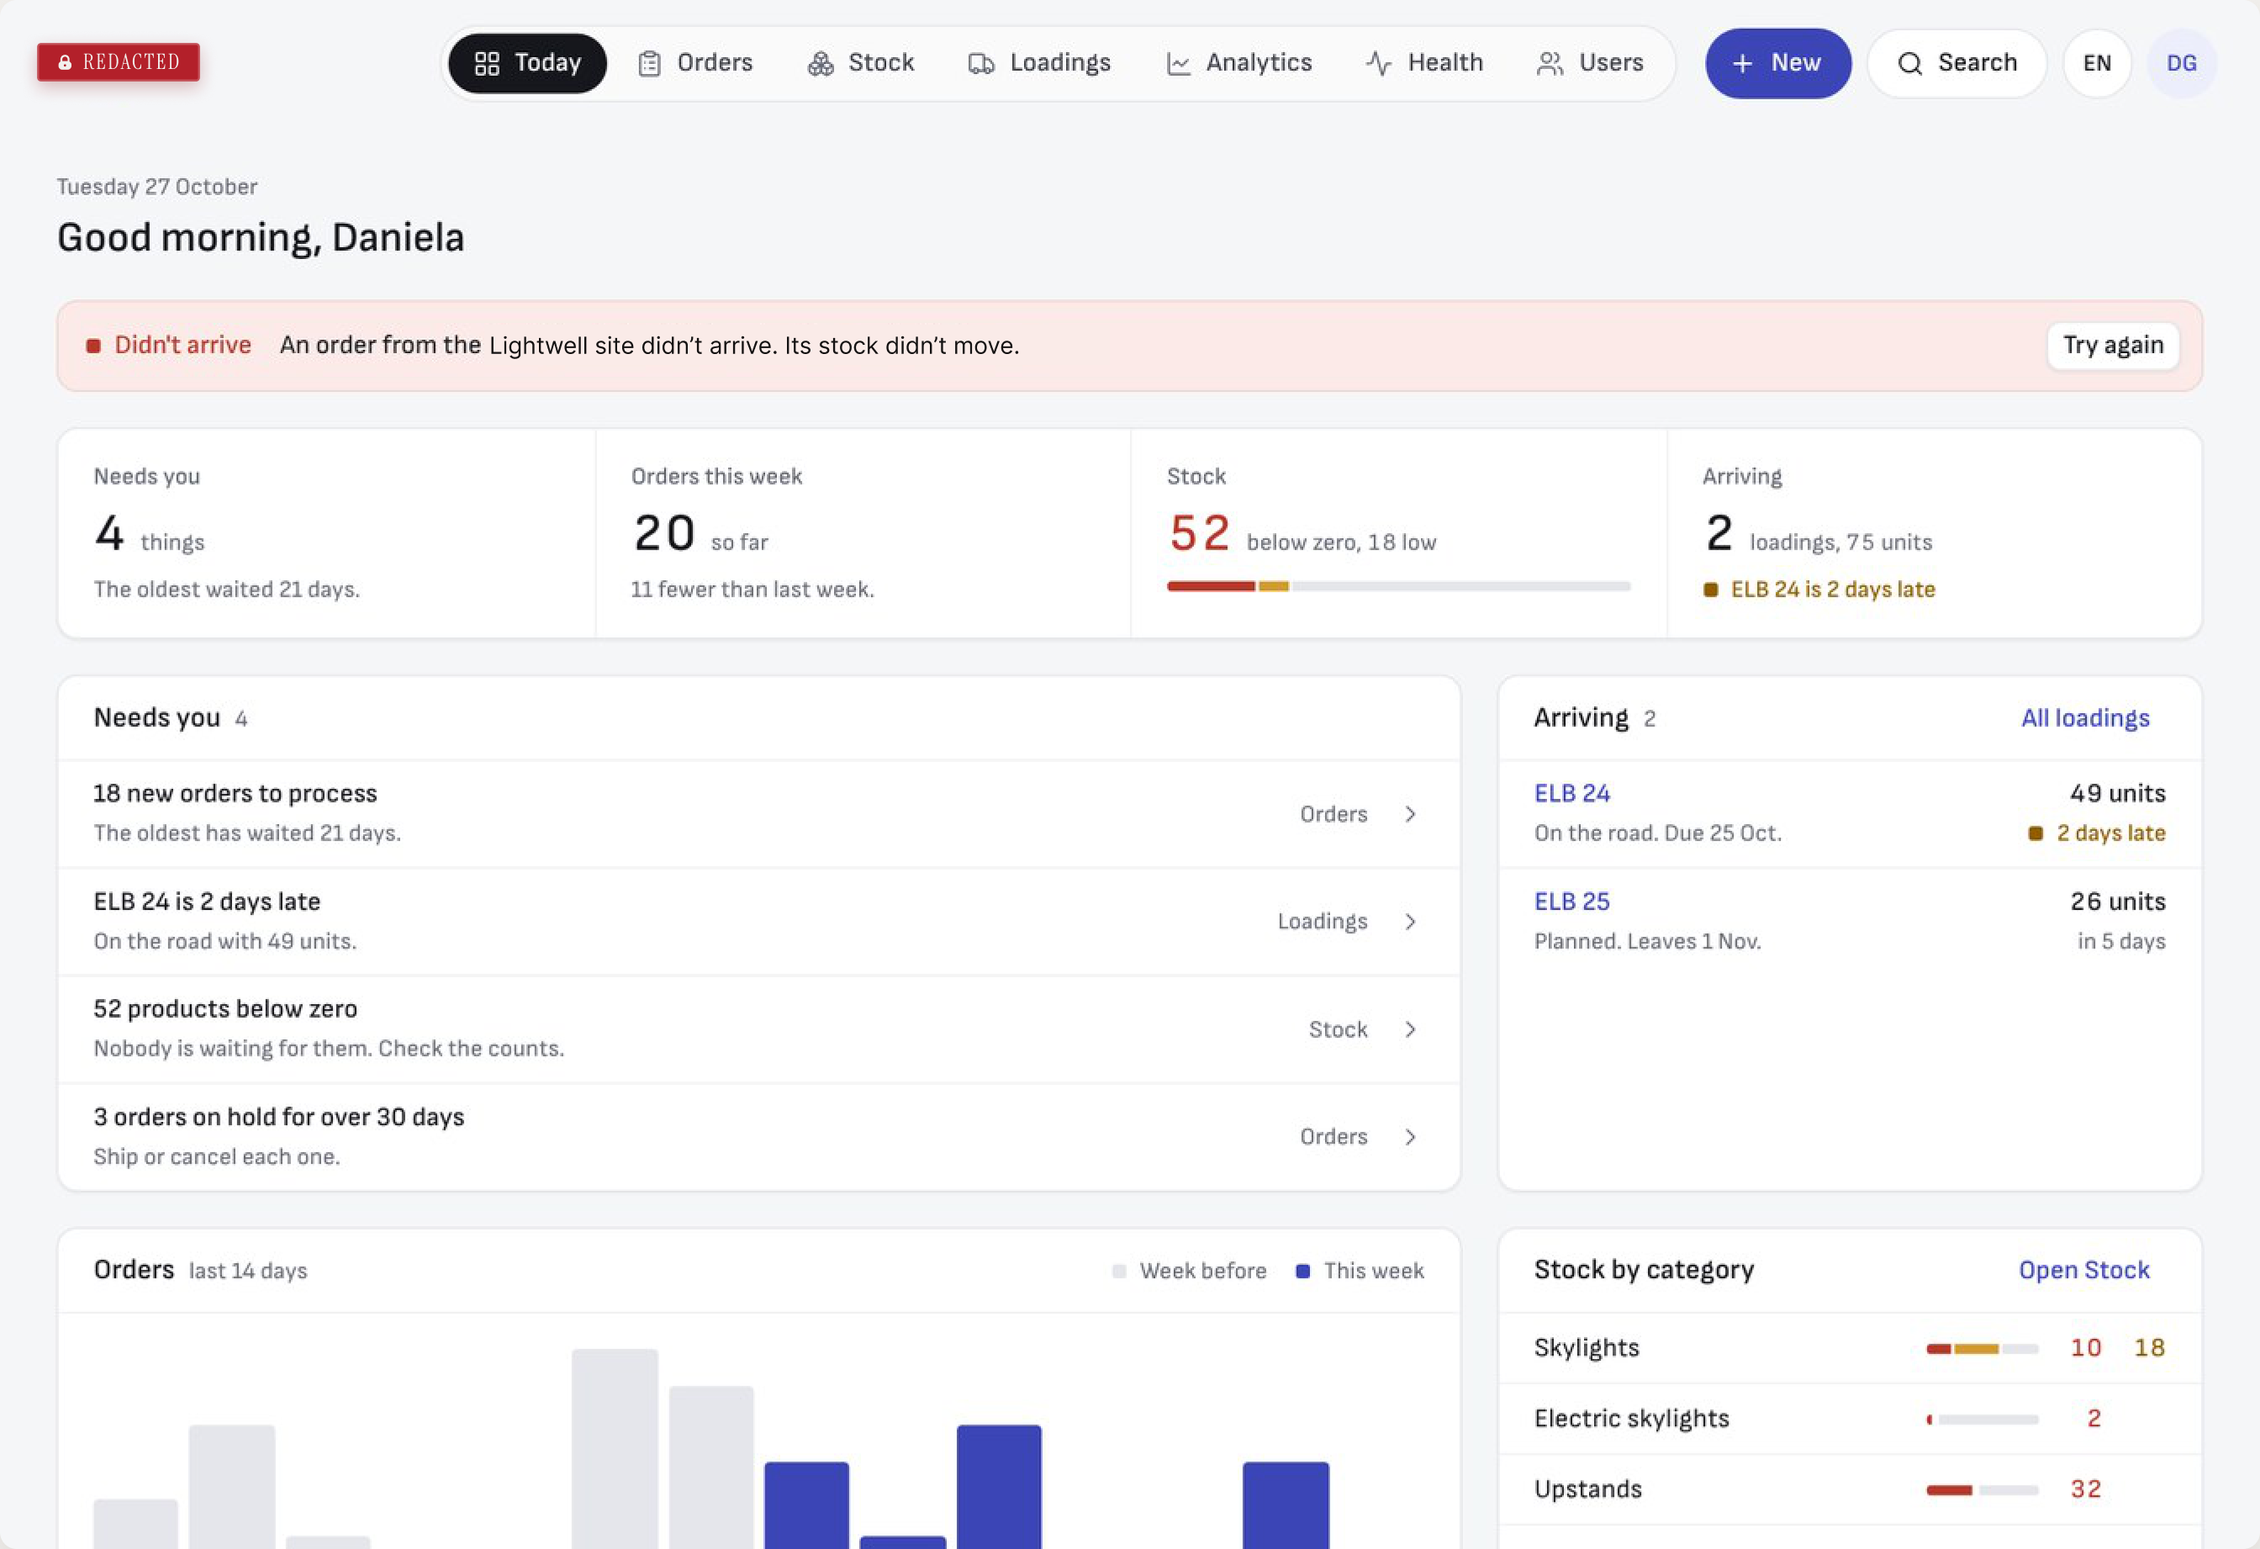
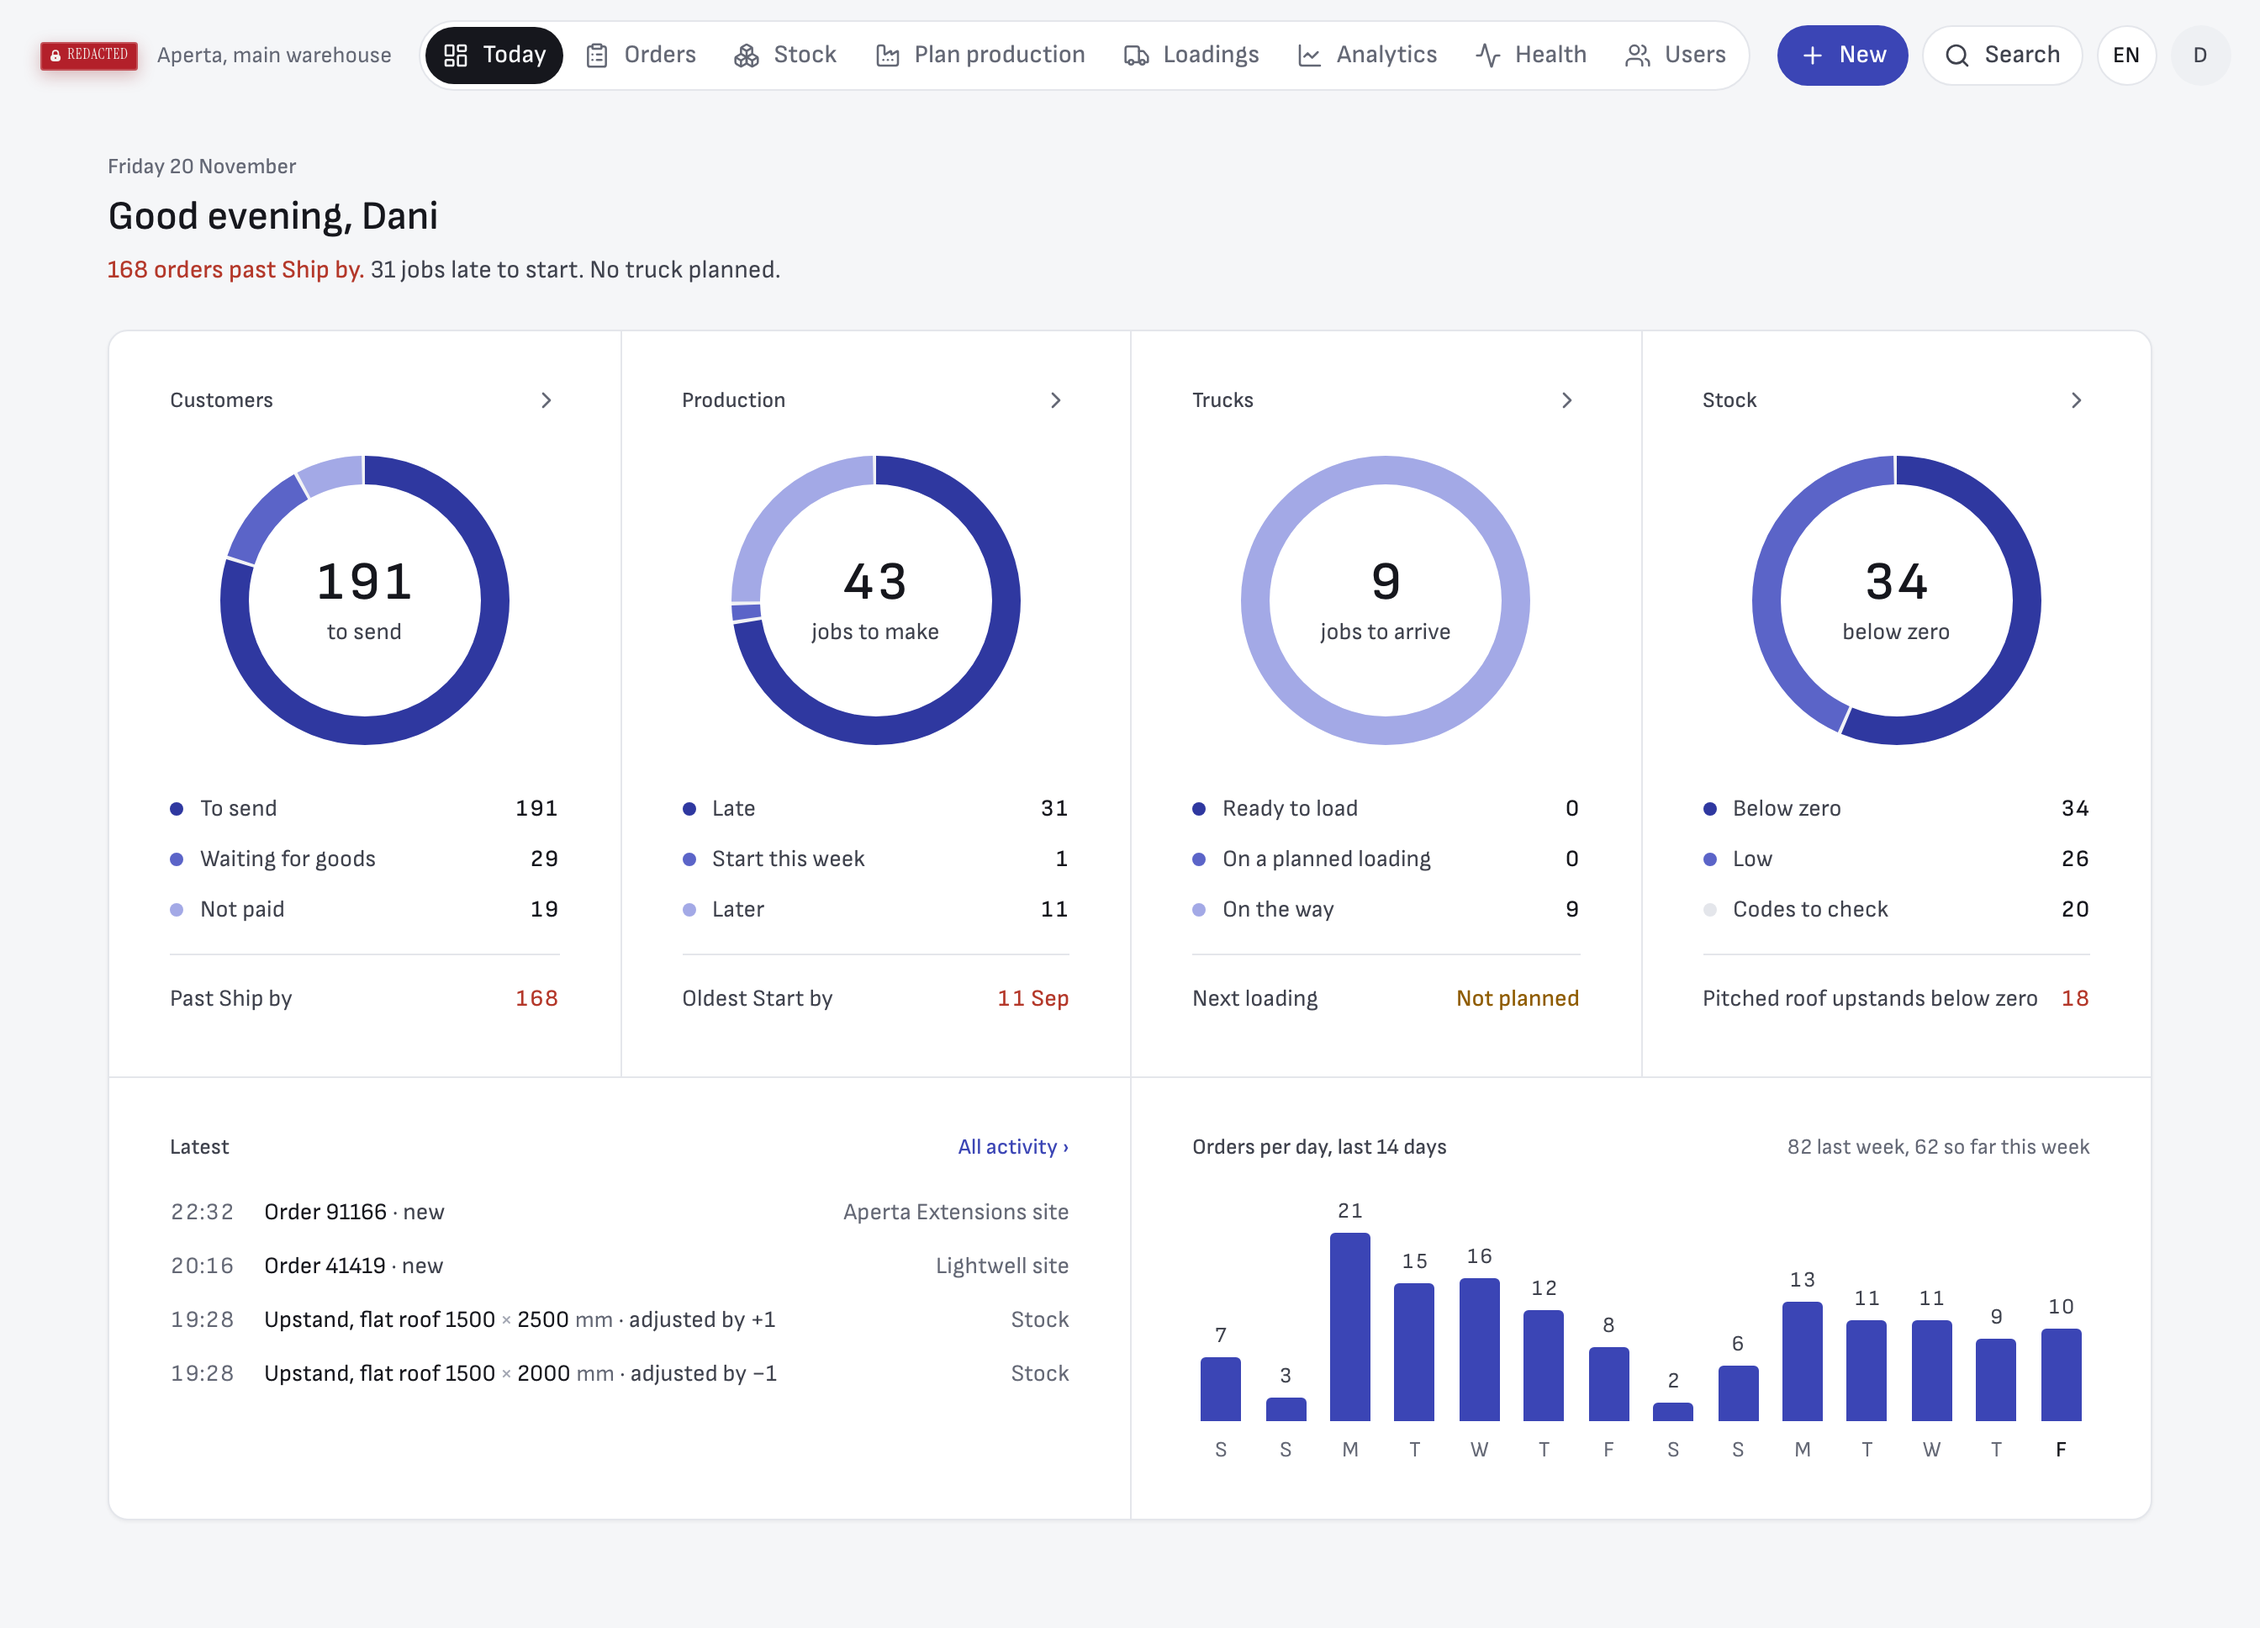
Add warehouse Orders, Stock and Health screens, phone tab first on phones, faster first paint
- Warehouse study: four redacted captures of the app at 2x, with the app's own phone layout below 768px
- Language school: the PHONE tab leads on phone widths
- Inline the CSS, shorten the intro cover, lighter capture images

diff --git a/src/content/case/warehouse-management-system.bg.ts b/src/content/case/warehouse-management-system.bg.ts
@@ -20,17 +20,21 @@ export const warehouse: CaseContent = {
     ],
   },
   screens: {
-    // Figma names four tabs (ДНЕС, ПОРЪЧКИ, НАЛИЧНОСТ, СЪСТОЯНИЕ) but draws only the Today
-    // screen (91:443), so there are no redacted Orders, Stock or Health composites to export
-    // yet. When they exist, add { id: 'orders', label: 'ПОРЪЧКИ' },
-    // { id: 'stock', label: 'НАЛИЧНОСТ' } and { id: 'health', label: 'СЪСТОЯНИЕ' } here and
-    // their alt texts below.
-    tabs: [{ id: 'today', label: 'ДНЕС' }],
+    // Figma names the four tabs and draws only Today. The captures are shared with English.
+    tabs: [
+      { id: 'today', label: 'ДНЕС' },
+      { id: 'orders', label: 'ПОРЪЧКИ' },
+      { id: 'stock', label: 'НАЛИЧНОСТ' },
+      { id: 'health', label: 'СЪСТОЯНИЕ' },
+    ],
     caption: 'Екраните са с примерни данни.',
     // Not in Figma.
     tablistLabel: 'Екрани',
     alt: {
       today: 'Екран „Днес“ на системата за управление на склад с примерни данни, логото на клиента е скрито',
+      orders: 'Екран „Поръчки“ на системата за управление на склад с примерни данни, логото на клиента е скрито',
+      stock: 'Екран „Наличност“ на системата за управление на склад с примерни данни, логото на клиента е скрито',
+      health: 'Екран „Състояние“ на системата за управление на склад с примерни данни, логото на клиента е скрито',
     },
     openLabel: 'Отвори екрана в пълен размер',
     frame: {

diff --git a/src/content/case/warehouse-management-system.en.ts b/src/content/case/warehouse-management-system.en.ts
@@ -20,18 +20,22 @@ export const warehouse: CaseContent = {
     ],
   },
   screens: {
-    // Figma names four tabs (TODAY, ORDERS, STOCK, HEALTH) but draws only the Today screen
-    // (53:207), so there are no redacted Orders, Stock or Health composites to export yet.
-    // When they exist, add { id: 'orders', label: 'ORDERS' }, { id: 'stock', label: 'STOCK' }
-    // and { id: 'health', label: 'HEALTH' } here, their alt texts below and their images in
-    // src/components/case/warehouse/Screens.astro. The 4s cycle starts by itself once there is
-    // more than one tab (src/scripts/case-warehouse.ts).
-    tabs: [{ id: 'today', label: 'TODAY' }],
+    // Figma names the four tabs and draws only Today. All four are captures of the running app,
+    // redacted in the page (src/components/case/warehouse/Screens.astro).
+    tabs: [
+      { id: 'today', label: 'TODAY' },
+      { id: 'orders', label: 'ORDERS' },
+      { id: 'stock', label: 'STOCK' },
+      { id: 'health', label: 'HEALTH' },
+    ],
     caption: 'Screens shown with demo data.',
     // Not in Figma.
     tablistLabel: 'Screens',
     alt: {
       today: 'Today screen of the warehouse management system with demo data, the client logo redacted',
+      orders: 'Orders screen of the warehouse management system with demo data, the client logo redacted',
+      stock: 'Stock screen of the warehouse management system with demo data, the client logo redacted',
+      health: 'Health screen of the warehouse management system with demo data, the client logo redacted',
     },
     openLabel: 'Open the screenshot at full size',
     frame: {
